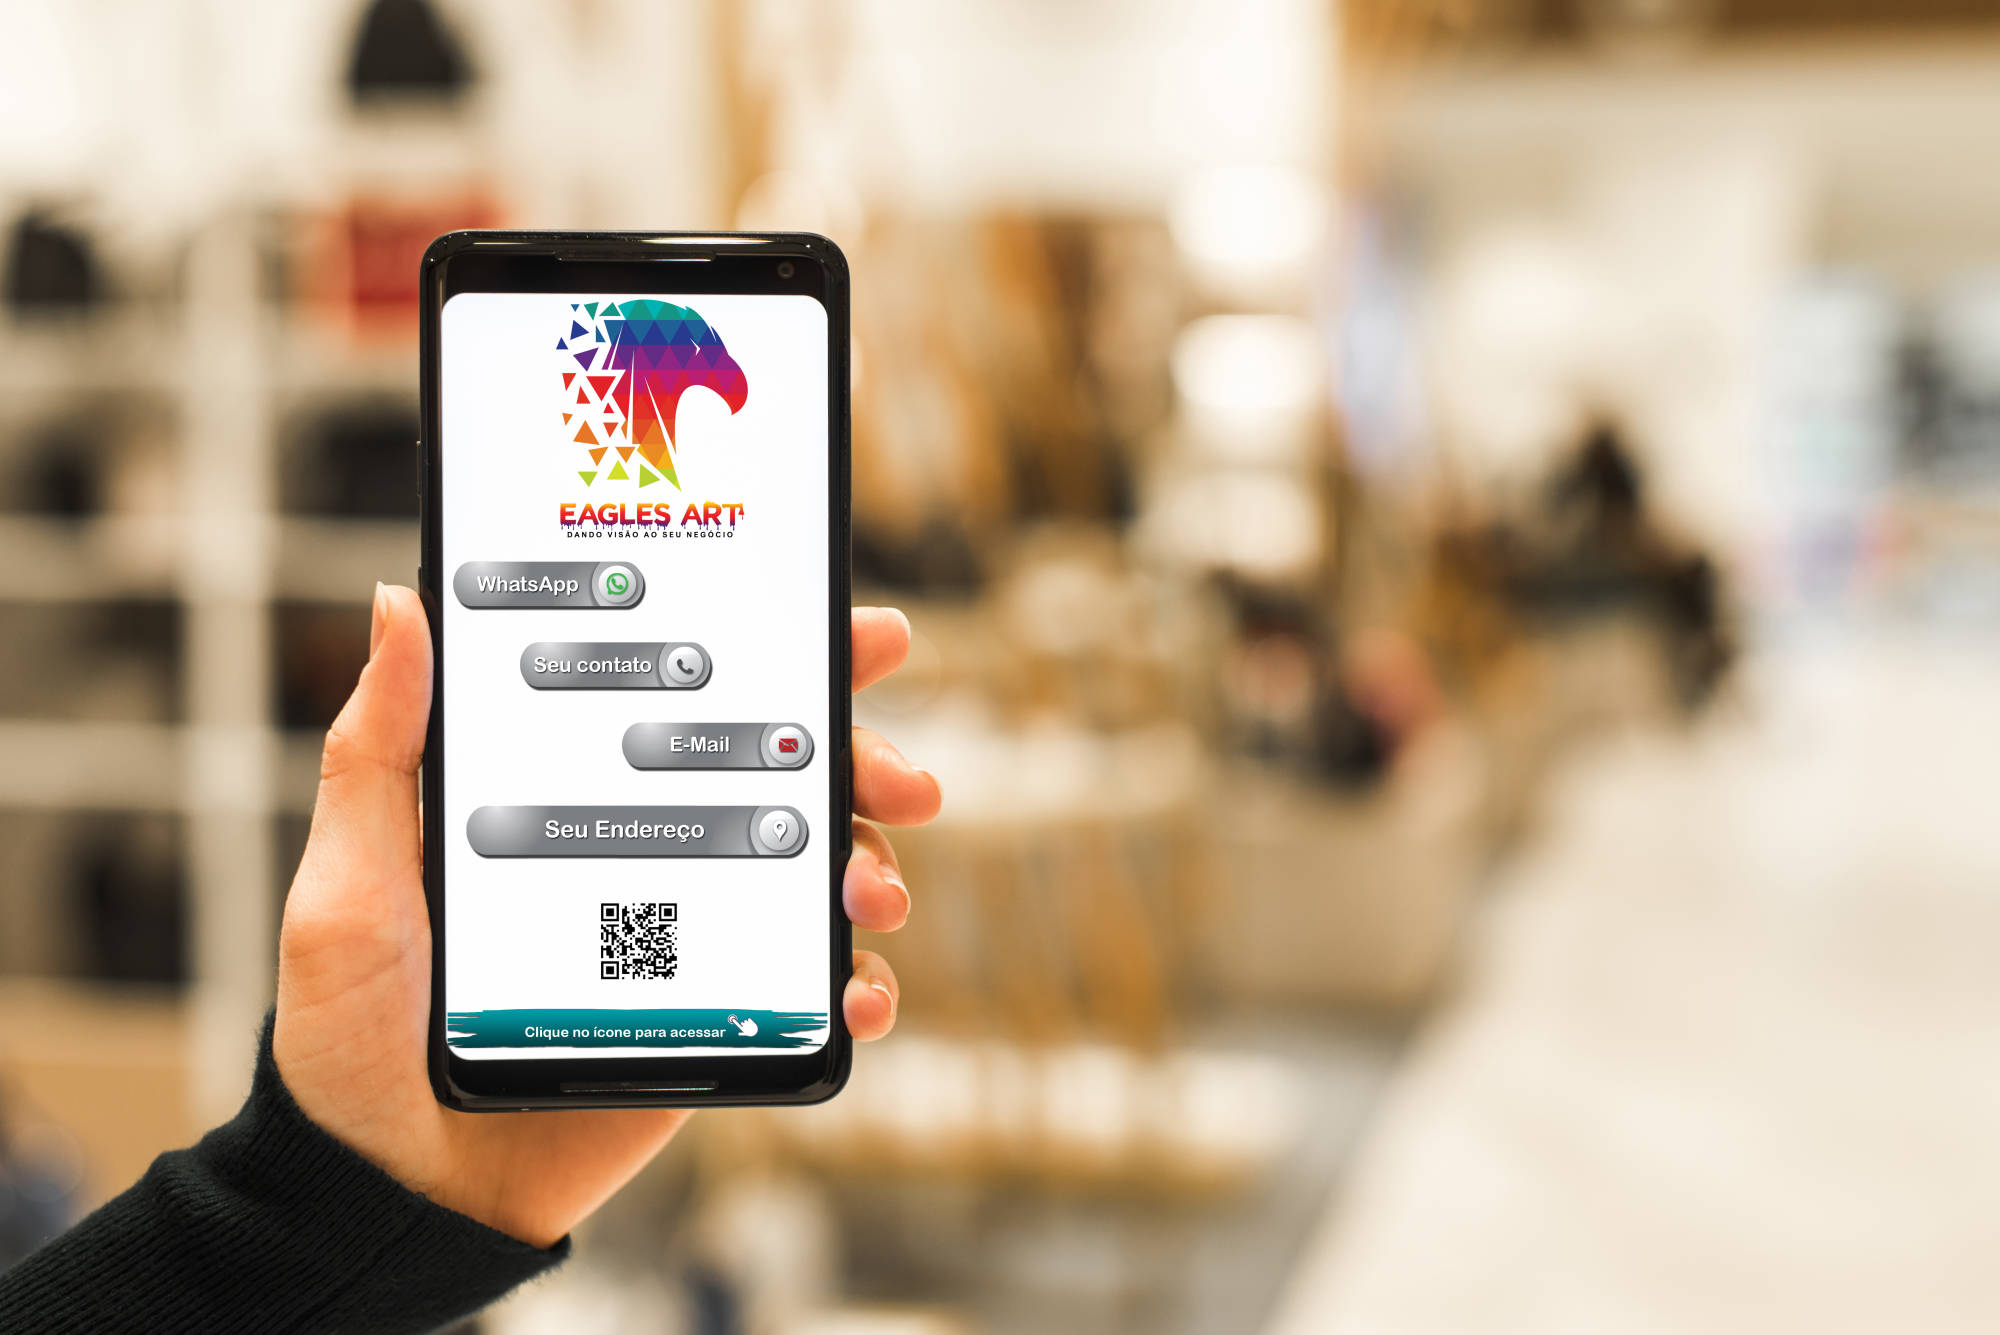
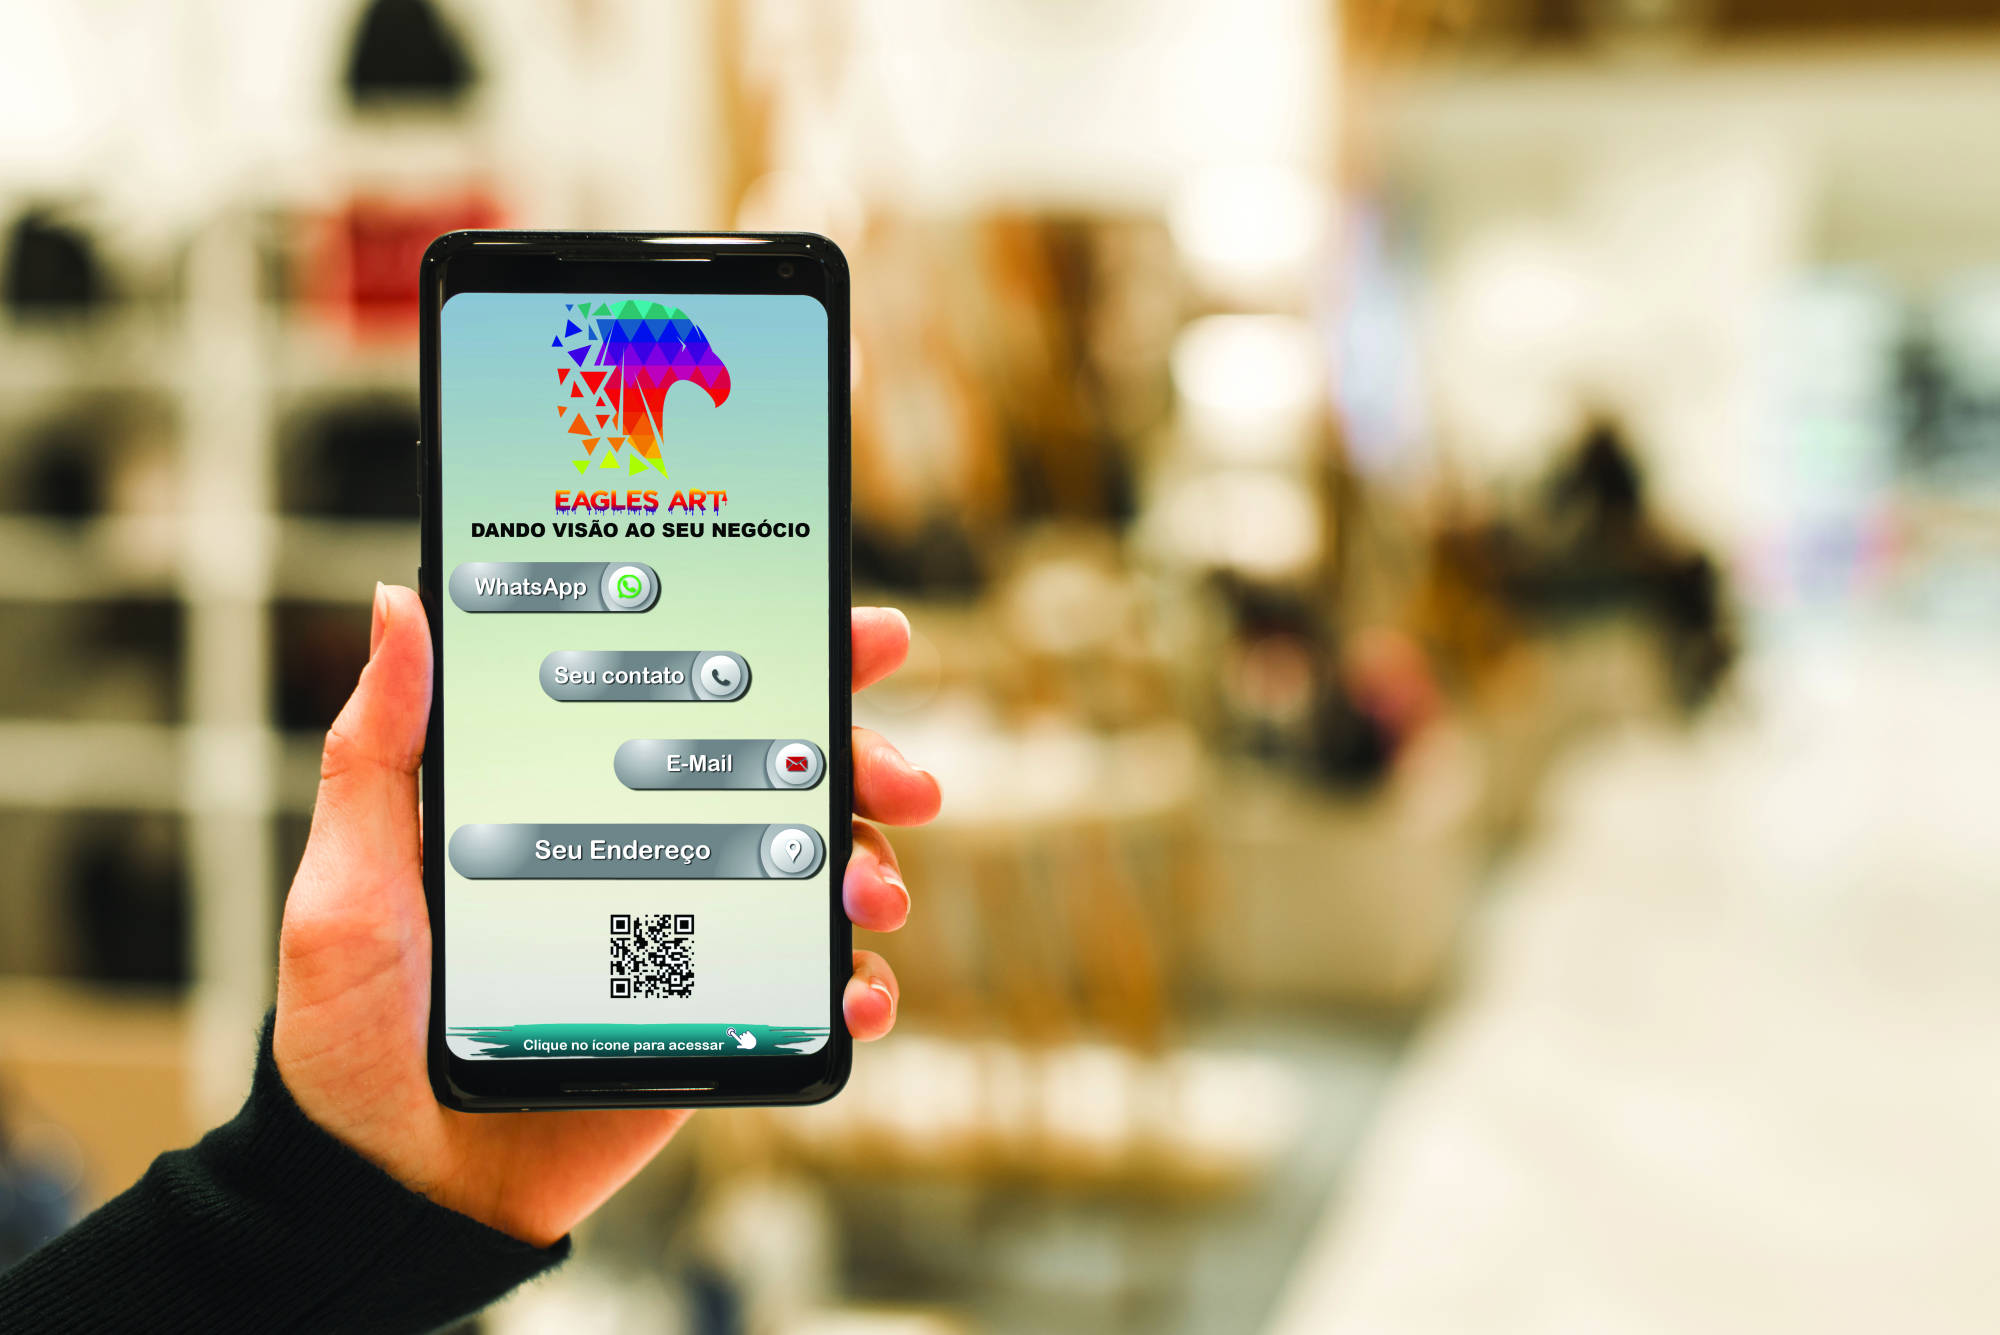
create github pages

diff --git a/index.html b/index.html
@@ -45,7 +45,7 @@
     </div>
 </section>
 
-<section class="engine"><a href="https://mobirise.info/z">best html templates</a></section><section class="mbr-box mbr-section mbr-section--relative mbr-section--fixed-size mbr-section--full-height mbr-section--bg-adapted mbr-parallax-background" id="header1-4" data-rv-view="2" style="background-image: url(assets/images/modelo-1-fundo-2000x1335.png);">
+<section class="engine"><a href="https://mobirise.info/n">simple website templates</a></section><section class="mbr-box mbr-section mbr-section--relative mbr-section--fixed-size mbr-section--full-height mbr-section--bg-adapted mbr-parallax-background" id="header1-4" data-rv-view="2" style="background-image: url(assets/images/fundo-1-eagles-2000x1335.jpg);">
     <div class="mbr-box__magnet mbr-box__magnet--sm-padding mbr-box__magnet--center-left mbr-after-navbar">
         <div class="mbr-overlay" style="opacity: 0.7; background-color: rgb(34, 34, 34);"></div>
         <div class="mbr-box__container mbr-section__container container">
@@ -110,7 +110,7 @@ Phone: (61) 9 8259 - 3685<br><br></p>
                     <div class="hide" data-form-alert-success="true">Thanks for filling out form!</div>
                 </div>
                 <form action="https://mobirise.com/" method="post" data-form-title="MESSAGE">
[2 lines of base64/hex data omitted]
                     <div class="form-group">
                         <input type="text" class="form-control input-sm input-inverse" name="name" required="" placeholder="Name*" data-form-field="Name">
                     </div>
